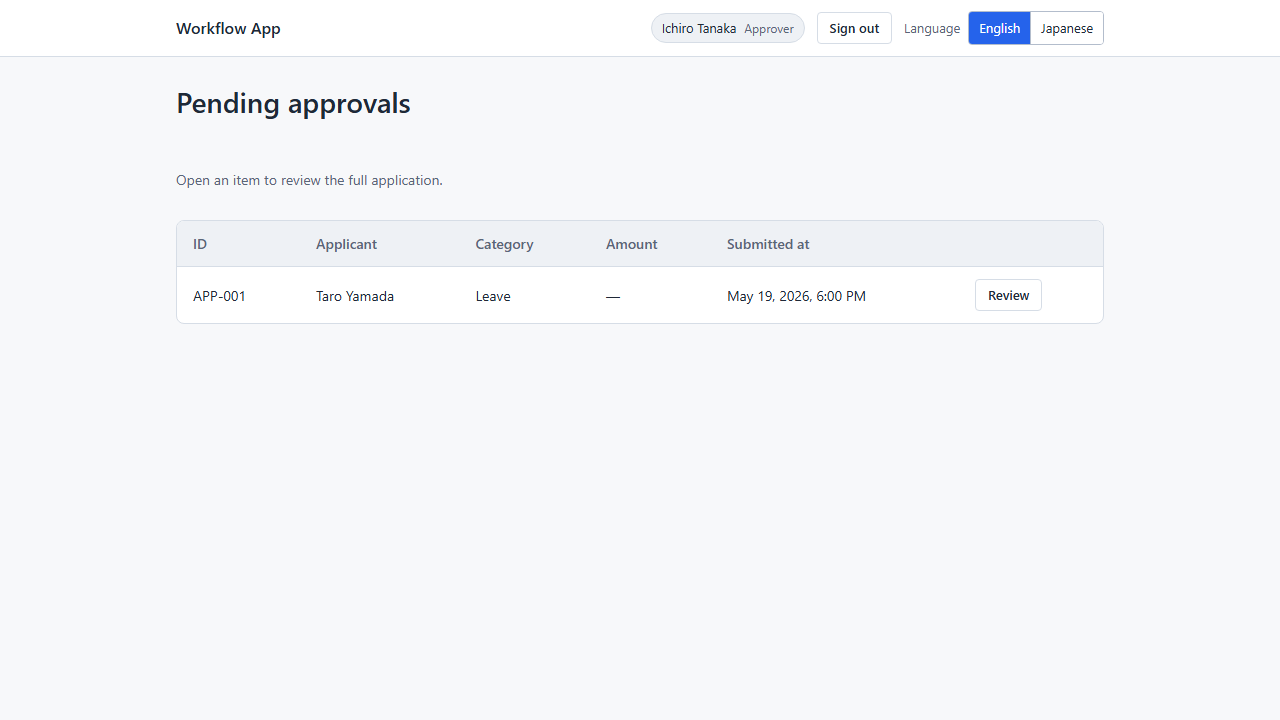
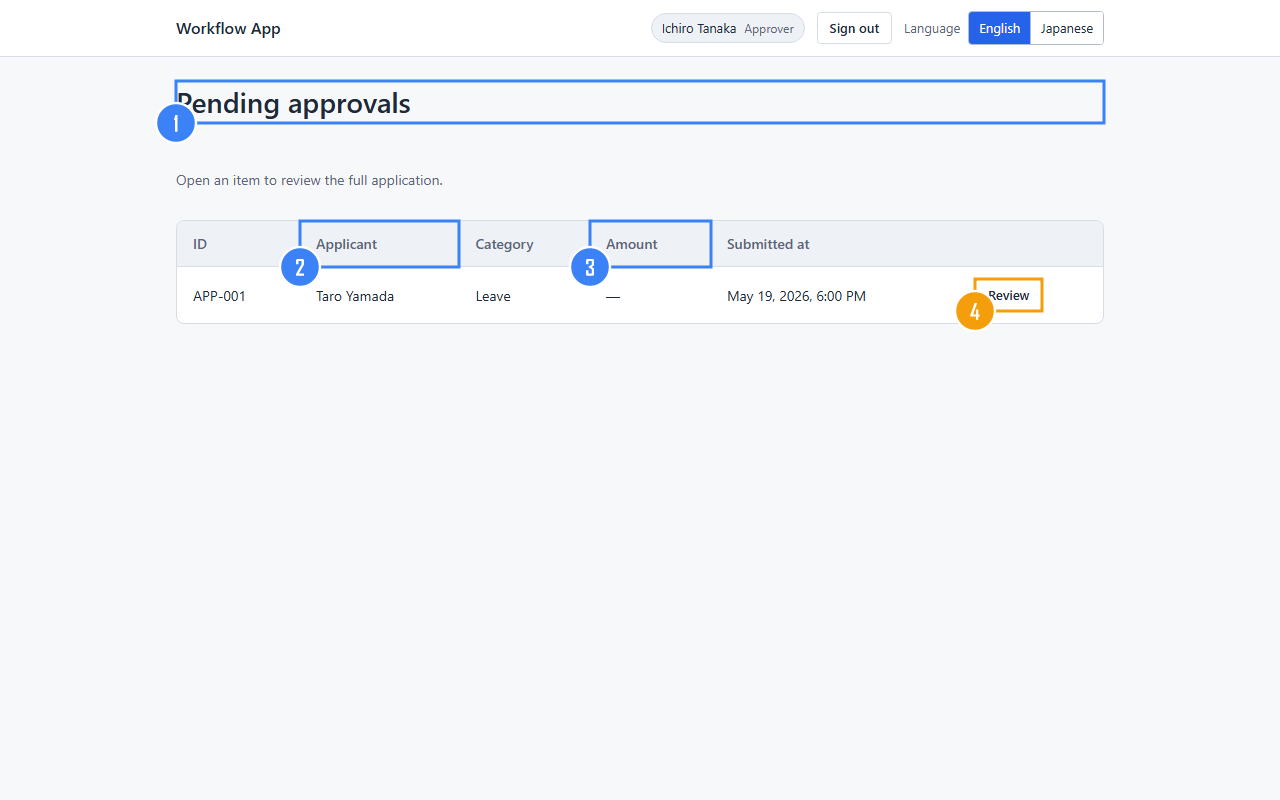
feat(examples): migrate workflow-app tour to unified annot screenshot
The two upstream blockers documented in
`examples/workflow-app/README.md`'s "Why not the unified
API?" section have both shipped:

- `@ingcreators/annot-product-docs-astro@0.2.2` (workspace
  via #958/#959) now resolves its `dist/playwright/index.js`
  + pins `@ingcreators/annot-core` at `^0.2.1`.
- `@ingcreators/annot-core@0.2.1` (workspace via #958)
  exposes `./xmp-bytes` on the published tarball, which
  the astro playwright fixture imports.

This PR collapses the hybrid `captureScreen + page.screenshot`
pair to a single `page.screenshot({ annot: { mdx } })`
call per (screen, book) pair.

## Diff summary

- `tests/docs/{applicant,approver}-flow.spec.ts` — `test`
  imports from
  `@ingcreators/annot-product-docs-astro/playwright`
  (was `@playwright/test`).
- `tests/docs/tour-helpers.ts` — drops the
  `page.screenshot()` + `captureScreen()` pair in favour
  of a single `page.screenshot({ path, annot: { mdx: {
  id, path: mdxPath } } })` call inside the per-MDX loop.
  Drops the `captureScreen` import too. SCREEN_TO_MDX
  lookup table unchanged.
- `playwright.config.ts` — drops
  `devices["Desktop Chrome"]` spread (its `screen: {
  width, height }` device-emulation hint collides with
  the `screen` Playwright fixture the upstream test
  runner registers; Playwright refuses to override a
  fixture from `use`). Explicit `viewport` is still set
  on the top-level `use` block.
- `package.json` — bumps
  `@ingcreators/annot-product-docs-astro` from `^0.2.0`
[…]

diff --git a/examples/workflow-app/tests/docs/tour-helpers.ts b/examples/workflow-app/tests/docs/tour-helpers.ts
@@ -1,26 +1,28 @@
 // Tour helpers — captures a screen for both books in one step.
 //
-// Combines:
-//   1. `page.screenshot()` — writes the base PNG into
-//      `docs-site/public/shots/<id>.png`.
-//   2. `captureScreen()` from `@ingcreators/annot-product-docs` —
-//      refreshes the MDX `annot:snapshot` + `annot:attributes`
-//      comment blocks for the screen, per book.
+// Uses the unified `page.screenshot({ annot: { mdx: { id, path } } })`
+// API from `@ingcreators/annot-product-docs-astro/playwright`,
+// which in a single Playwright call:
 //
-// The upstream `@ingcreators/annot-product-docs-astro/playwright`
-// subpath ships a one-call `page.screenshot({ annot: { mdx } })`
-// API that does all three steps at once, but its 0.2.0 publish
-// is missing the compiled `dist/playwright/index.js` (a separate
-// publish-pipeline bug from the prepack one fixed in #947 —
-// vite.config.ts's `lib.entry` is single-entry only and never
-// emits the subpath bundle). A follow-up PR fixes the vite
-// config + ships 0.2.1; once that lands, this whole module
-// collapses to one call per (screen, mdx) pair.
+//   1. Writes the base PNG to `path` (in `docs-site/public/shots/`).
+//   2. Refreshes the MDX `annot:snapshot` + `annot:attributes`
+//      comment blocks via upstream `captureScreen`.
+//   3. Bakes the MDX `<Overlay match>` blocks into the PNG as
+//      editable SVG annotations stored in an XMP chunk — drop
+//      the resulting `.png` into Annot Cloud (`annot.work/app/`)
+//      and the overlays come back editable.
+//
+// Each screen maps to one MDX per book. The MDX update happens
+// per-call, so we loop the lookup table and call screenshot once
+// per (screen, mdx) pair. The PNG path is the same on each
+// iteration — the second write overwrites the first with the
+// same image bytes plus updated XMP tags reflecting the
+// later-walked overlay set, which is harmless when both books
+// declare overlays at the same coordinates.
 
 import path from "node:path";
 import { fileURLToPath } from "node:url";
 
-import { captureScreen } from "@ingcreators/annot-product-docs";
 import type { Page } from "@playwright/test";
 
 const HERE = path.dirname(fileURLToPath(import.meta.url));
@@ -79,9 +81,9 @@ export interface CaptureOptions {
  * Capture one screen for every MDX in the lookup table.
  *
  * Writes a single `<id>.png` (each book uses the same base
- * screenshot) plus updates each MDX's `annot:snapshot` /
+ * screenshot) and updates each MDX's `annot:snapshot` /
  * `annot:attributes` comment blocks via the upstream
- * `captureScreen` helper.
+ * `page.screenshot({ annot: { mdx } })` interceptor.
  */
 export async function capture(page: Page, options: CaptureOptions): Promise<void> {
   const targets = SCREEN_TO_MDX[options.id];
@@ -92,8 +94,10 @@ export async function capture(page: Page, options: CaptureOptions): Promise<void
     );
   }
   const shotPath = path.join(SHOTS_DIR, `${options.id}.png`);
-  await page.screenshot({ path: shotPath, fullPage: false });
   for (const mdxPath of targets) {
-    await captureScreen(page, { id: options.id, mdxPath });
+    await page.screenshot({
+      path: shotPath,
+      annot: { mdx: { id: options.id, path: mdxPath } },
+    });
   }
 }

diff --git a/examples/workflow-app/playwright.config.ts b/examples/workflow-app/playwright.config.ts
@@ -1,21 +1,25 @@
-import { defineConfig, devices } from "@playwright/test";
+import { defineConfig } from "@playwright/test";
 
 // Playwright config for the workflow-app docs tour.
 //
 // `npm run docs:sync` boots Vite on port 5173 via the
 // `webServer` block, walks the SPA twice (applicant flow,
-// approver flow), captures base PNGs into
-// `docs-site/public/shots/` and refreshes the
-// `annot:snapshot` block in every matching MDX under
-// `docs/books/{operation-manual,screen-design}/`.
+// approver flow), and per (screen, mdx) pair:
 //
-// The tour does NOT depend on
-// `@ingcreators/annot-product-docs` because that package's
-// `0.1.0` npm publish is missing its `dist/` (fix landed in
-// #947 — gated on operator republish). Once `0.1.1` is on
-// the registry, the per-screen `capture()` calls in the
-// spec files migrate to `screen.capture({ id, mdxPath })`
-// from the published fixture.
+//   1. Writes the base PNG to `docs-site/public/shots/<id>.png`.
+//   2. Refreshes the matching MDX's `annot:snapshot` +
+//      `annot:attributes` comment blocks via the upstream
+//      `page.screenshot({ annot: { mdx } })` interceptor from
+//      `@ingcreators/annot-product-docs-astro/playwright`.
+//
+// Note: we don't spread `devices["Desktop Chrome"]` into the
+// project's `use` block. That preset carries a `screen:
+// { width, height }` device-emulation hint which collides
+// with the `screen` Playwright fixture that the upstream
+// `@ingcreators/annot-product-docs` test runner registers
+// (Playwright refuses to override a fixture from `use`).
+// The browser binary is selected via Playwright's default
+// Chromium build — explicit `channel` is unnecessary.
 
 export default defineConfig({
   testDir: "./tests/docs",
@@ -28,9 +32,7 @@ export default defineConfig({
     viewport: { width: 1280, height: 800 },
     locale: "en-US",
   },
-  projects: [
-    { name: "chromium", use: { ...devices["Desktop Chrome"] } },
-  ],
+  projects: [{ name: "chromium" }],
   webServer: {
     command: "npm run dev",
     url: "http://localhost:5173",

diff --git a/examples/workflow-app/tests/docs/applicant-flow.spec.ts b/examples/workflow-app/tests/docs/applicant-flow.spec.ts
@@ -1,4 +1,4 @@
-import { test } from "@playwright/test";
+import { test } from "@ingcreators/annot-product-docs-astro/playwright";
 
 import { capture } from "./tour-helpers.js";
 

diff --git a/examples/workflow-app/tests/docs/approver-flow.spec.ts b/examples/workflow-app/tests/docs/approver-flow.spec.ts
@@ -1,4 +1,4 @@
-import { test } from "@playwright/test";
+import { test } from "@ingcreators/annot-product-docs-astro/playwright";
 
 import { capture } from "./tour-helpers.js";
 

diff --git a/examples/workflow-app/README.md b/examples/workflow-app/README.md
@@ -107,51 +107,26 @@ npm run docs:sync
 
 `docs:sync` runs Playwright against the SPA (Vite is started
 automatically via the config's `webServer` block) and, per
-screen:
+screen, calls the unified
+`page.screenshot({ annot: { mdx: { id, path } } })` fixture
+from
+[`@ingcreators/annot-product-docs-astro/playwright`](https://www.npmjs.com/package/@ingcreators/annot-product-docs-astro)
+once per matching MDX. Each call:
 
 1. Writes a fresh `docs-site/public/shots/<id>.png`.
-2. Calls `captureScreen()` from
-   [`@ingcreators/annot-product-docs`](https://www.npmjs.com/package/@ingcreators/annot-product-docs)
-   once per matching MDX (one per book) to refresh the file's
-   `annot:snapshot` (Playwright `aria-snapshot` YAML with
-   `[ref=eN]` + `[box=x,y,w,h]` markers) and
-   `annot:attributes` (per-`<Overlay>` HTML attribute
-   whitelist) comment blocks in-place.
+2. Refreshes the target MDX's `annot:snapshot` (Playwright
+   `aria-snapshot` YAML with `[ref=eN]` + `[box=x,y,w,h]`
+   markers) and `annot:attributes` (per-`<Overlay>` HTML
+   attribute whitelist) comment blocks in place.
+3. Bakes the MDX `<Overlay match>` blocks into the PNG as
+   editable SVG annotations stored in an XMP chunk — drop
+   the resulting `.png` into Annot Cloud
+   (`annot.work/app/`) and the overlays come back editable.
 
 The per-screen → MDX mapping lives in
 [`tests/docs/tour-helpers.ts`](./tests/docs/tour-helpers.ts).
-
-### Why not the unified `page.screenshot({ annot })` API?
-
-[`@ingcreators/annot-product-docs-astro/playwright`](https://www.npmjs.com/package/@ingcreators/annot-product-docs-astro)
-ships a one-call `page.screenshot({ annot: { mdx: { id, path } } })`
-fixture that would collapse the screenshot + `captureScreen`
-pair to a single call. The example doesn't use it yet because
-two upstream publish-pipeline bugs are layered:
-
-1. ~~`-astro@0.2.0` shipped `dist/playwright/*.d.ts` but not
-   `dist/playwright/index.js`.~~ Fixed +
-   republished as `0.2.1`
-   ([annot#954](https://github.com/ingcreators/annot/pull/954),
-   [annot#956](https://github.com/ingcreators/annot/pull/956)).
-2. **`@ingcreators/annot-core@0.2.0`'s `publishConfig.exports`
-   only declares `.` + `./styles/*`** — none of the workspace
-   subpaths (`./xmp-bytes`, `./headless`, `./editor`, etc.)
-   make it into the published tarball. The astro `0.2.1`
-   playwright fixture imports `@ingcreators/annot-core/xmp-bytes`,
-   so `npm run docs:sync` fails with `Package subpath
-   './xmp-bytes' is not defined`. Fix needs
-   `packages/core/vite.config.ts` to switch to multi-entry
-   build + an expanded `publishConfig.exports` map. Once
-   core republishes as `0.2.1` with the full surface AND
-   astro republishes as `0.2.2` pinned to that, the
-   example can migrate in one small PR.
-
-Until both upstream republishes land, the hybrid
-`captureScreen + page.screenshot` setup works perfectly
-fine and produces the same `annot:snapshot` +
-`annot:attributes` blocks. The unified API is a nicety,
-not a need.
+The whole thing is a single Playwright call per (screen, book)
+pair — about 60 lines of test code plus a tiny lookup table.
 
 ## CI
 
